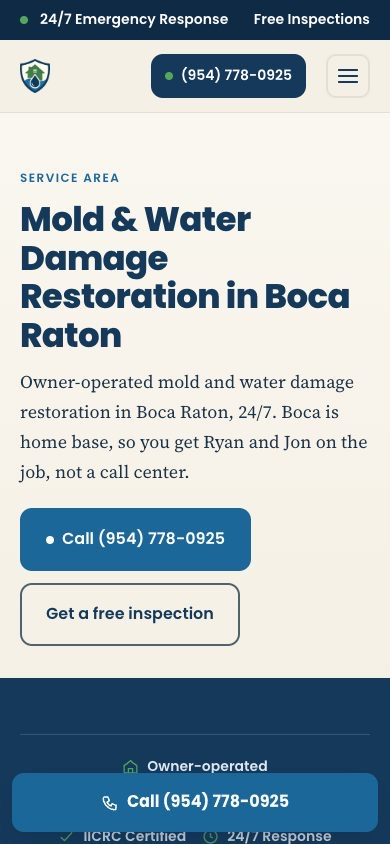
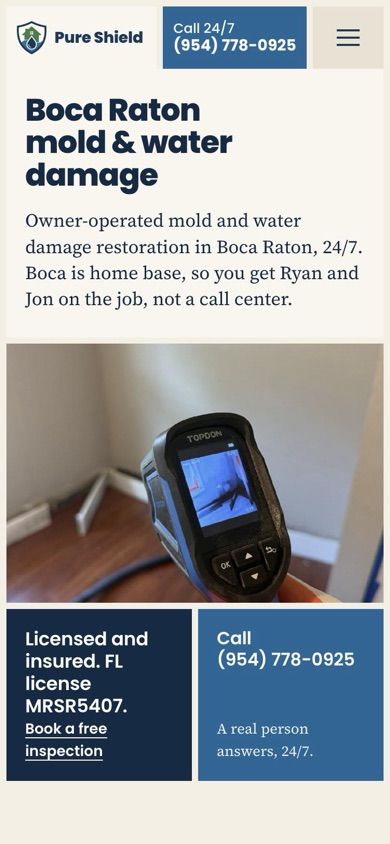
Client work: swap in Pure Shield's restyled pages
New screenshots of the restyled homepage, mold remediation and Boca Raton
pages at desktop and phone width; drops the pre-restyle shots.

diff --git a/layouts/index.html b/layouts/index.html
@@ -74,11 +74,12 @@
         </article>
         <article class="proj" data-region="fl" data-reveal style="--i:1">
           <div class="strip">
-            <img src="/images/work/ps-home.jpg" width="1440" height="900" loading="lazy" alt="Pure Shield Restoration home page: Water or mold damage? We're on it.">
-            <img src="/images/work/ps-phone-row.jpg" width="1560" height="844" loading="lazy" alt="Four phone screens of the Pure Shield Restoration site">
-            <img src="/images/work/ps-water.jpg" width="1440" height="900" loading="lazy" alt="Pure Shield water damage restoration service page">
-            <img src="/images/work/ps-case.jpg" width="1440" height="900" loading="lazy" alt="Pure Shield case study of an attic AC leak and ceiling mold in Parkland">
-            <img src="/images/work/ps-boca.jpg" width="390" height="844" loading="lazy" alt="Pure Shield Boca Raton service area page on a phone">
+            <img src="/images/work/ps-home.jpg" width="1440" height="900" loading="lazy" alt="Pure Shield Restoration home page: Mold and water damage, handled.">
+            <img src="/images/work/ps-phone-home.jpg" width="390" height="844" loading="lazy" alt="Pure Shield home page on a phone, with a photo of mold on a wall">
+            <img src="/images/work/ps-mold.jpg" width="1440" height="900" loading="lazy" alt="Pure Shield mold remediation page: Mold Remediation in South Florida">
+            <img src="/images/work/ps-phone-jobs.jpg" width="390" height="844" loading="lazy" alt="Pure Shield home page on a phone, showing a Parkland ceiling mold job">
+            <img src="/images/work/ps-boca-desk.jpg" width="1440" height="900" loading="lazy" alt="Pure Shield Boca Raton page with a thermal camera photo">
+            <img src="/images/work/ps-boca.jpg" width="390" height="844" loading="lazy" alt="Pure Shield Boca Raton page on a phone">
           </div>
           <div class="cap"><a class="tl" href="https://pureshieldrestoration.com/" target="_blank" rel="noopener">Pure Shield Restoration</a><span>Mold and water damage, South Florida</span><span>2026</span></div>
           <p>Site built from scratch, Google set up, a page for every town they serve, visibility growing month by month.</p>
